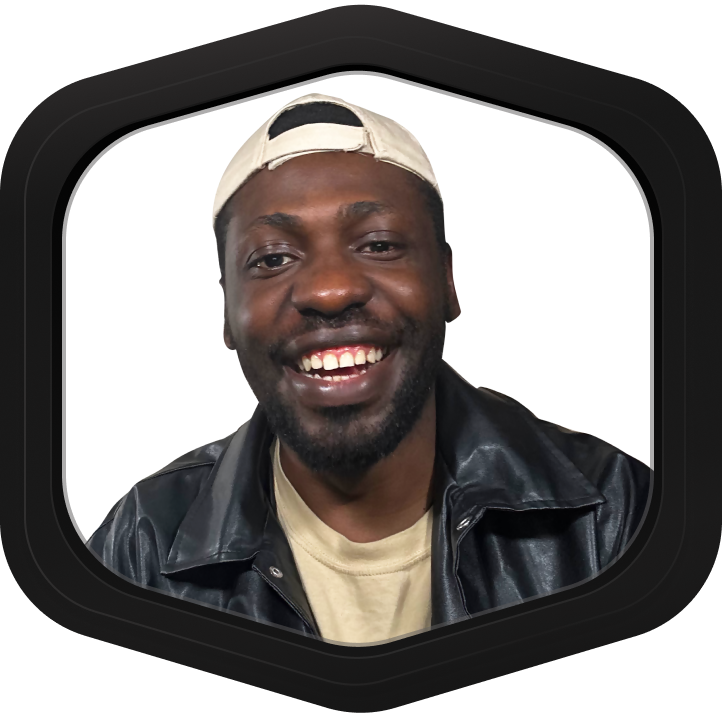
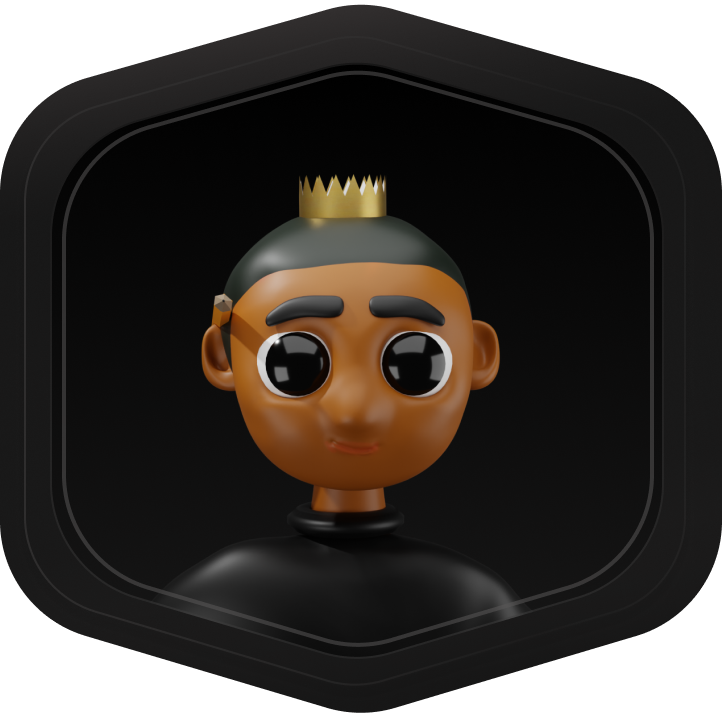
light mode update, memun filter opacity update, tor.cc profile photo up date

diff --git a/css/styles.css b/css/styles.css
@@ -154,7 +154,7 @@ header {
   z-index: 200;
   box-shadow: 0px 3px 10px #0000006a;
   border-radius: 60px;
-  backdrop-filter: blur(8px);
+  backdrop-filter: brightness() opacity(70%) blur(8px);
   background-image: linear-gradient(
     50deg,
     #1b1a1a7a,
@@ -444,7 +444,7 @@ header ul img p :hover {
 
 
 #intro-profile-continer {
-  width: auto;
+  width: 90%;
   height: 255px;
   display: flex;
   position: relative;
@@ -457,7 +457,7 @@ header ul img p :hover {
 .profile-photo {
   max-width: 30%;
   width: 290px;
-  height: 300px;
+  height: auto;
   display: flex;
   position: relative;
   align-items: center;
@@ -1158,6 +1158,45 @@ footer {
   .category-icons-container {
     max-width: 462px;
   }
+  .home-drawers {
+    background-color: transparent;
+    width: 320px;
+    justify-content: space-around;
+    gap: 10px;
+  }
+  
+  .drawer-foreground-grad {
+    width: 318px;
+  }
+  .drawer-background {
+    width: 316px;
+  }
+  
+  .drawer-backdrop-grad {
+    width: 320px;
+    
+  }
+  
+  .home-drawer-img {
+    width: 116px;
+    transform: translatex(6px)
+  }
+  
+  .home-drawer-txt {
+    min-width: 100px;
+    width: fit-content;
+    height: auto;
+    transform: translatex(5px);
+  }
+  .home-drawers p {
+    margin: 0;
+
+  }
+  h4 {
+    margin-bottom: 8px;
+  }
+  
+
 }
 
 /*--------------- .7b.Phone---------------------- */
@@ -1190,7 +1229,19 @@ footer {
     width: 100px;
     height: 50px;
     left: 5px;
-    bottom: -54px;
+    bottom: -24px;
+    z-index: 1000;
+    border: 0.5px solid #55555505;
+/* box-shadow: 0px 3px 10px #0000006a; */
+backdrop-filter: blur(3px);
+  background-image: linear-gradient(
+    50deg,
+    #1b1a1a4b,
+    #0f0f0f92,
+    #1b1a1a5d,
+    #0f0f0f94,
+    #27262640
+  );
   }
 
   .site-logo-img {

diff --git a/index.html b/index.html
@@ -190,13 +190,11 @@
   
         <img class="profile-photo" src="img/home pf imag.png" alt="designers picture">
         <p class="intro-txt">
-          Hello and welcome!
-I'm Tor Hulugh  a Web Developer with a background in design. 
-I'm so glad you're here in my little corner of the web!
-This space is where I share my journey through code and creativity 
-from passion projects and professional work to the inspirations that fuel them. You'll get to see my process, 
-behind-the-scenes stories, and the heart behind every design and development decision.
-Take a look around, explore, and feel free to connect. I’m super excited to share my works with you!  
+          Hi, I'm Tor Hulugh welcome!
+I'm a web developer with a background in design. 
+This is where I share my work, passion projects, 
+and the stories and ideas that inspire them. 
+Feel free to explore and enjoy the journey with me!  
           </p> 
     </div>
 
